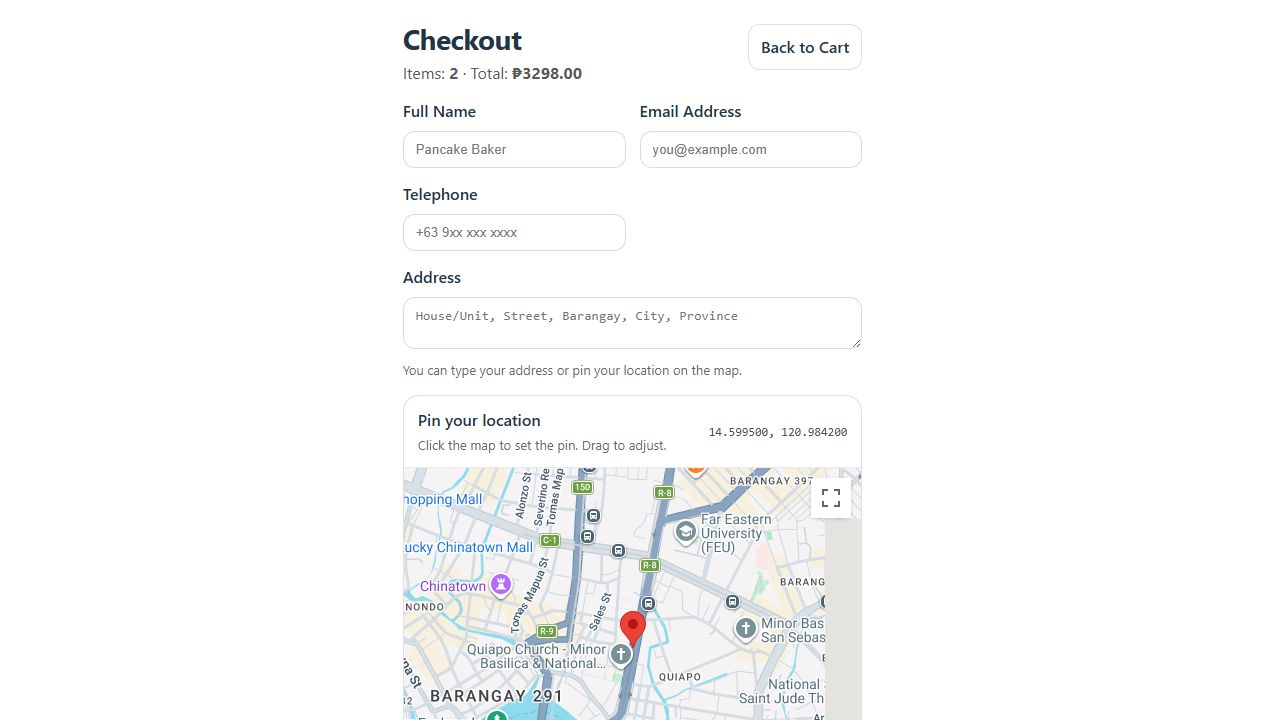
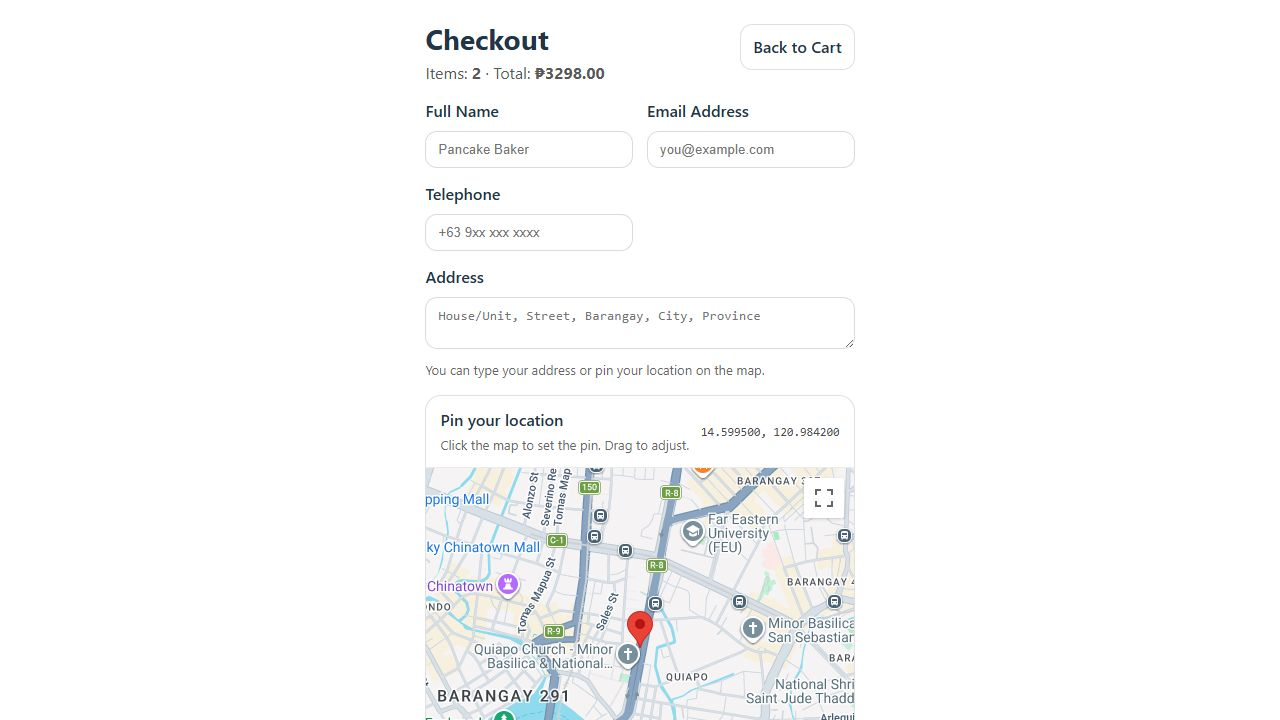
Improve product imagery and frontend SEO

diff --git a/ShoppingCartUI/src/pages/ProductsPage.jsx b/ShoppingCartUI/src/pages/ProductsPage.jsx
@@ -2,17 +2,22 @@ import React, { useEffect, useState } from "react";
 import { Link } from "react-router-dom";
 import { fetchProducts } from "../api";
 import { useCart } from "../cart/useCart"; // adjust if your hook path differs
+import { setPageMeta } from "../seo";
 import styles from "./ProductsPage.module.css";
 
-function ProductCard({ product, onAdd }) {
+function ProductCard({ product, onAdd, priority = false }) {
   return (
     <article className={styles.card}>
       <div className={styles.imageWrap}>
         <img
           className={styles.image}
           src={product.imageUrl}
-          alt={product.name}
-          loading="lazy"
+          alt={`${product.name} product photo`}
+          width="800"
+          height="800"
+          loading={priority ? "eager" : "lazy"}
+          fetchPriority={priority ? "high" : "auto"}
+          decoding={priority ? "sync" : "async"}
         />
       </div>
 
@@ -46,6 +51,14 @@ export default function ProductsPage() {
   const [error, setError] = useState("");
 
   useEffect(() => {
+    setPageMeta({
+      title: "Products | C# React Shopping Cart Demo",
+      description:
+        "Browse electronics products in a portfolio-ready ASP.NET Core and React shopping cart demo.",
+    });
+  }, []);
+
+  useEffect(() => {
     let cancelled = false;
 
     (async () => {
@@ -71,7 +84,7 @@ export default function ProductsPage() {
   }, []);
 
   return (
-    <div className={styles.page}>
+    <main className={styles.page}>
       <header className={styles.topbar}>
         <div>
           <h1 className={styles.pageTitle}>Products</h1>
@@ -102,10 +115,15 @@ export default function ProductsPage() {
       )}
 
       <section className={styles.grid} aria-label="Product list">
-        {products.map((p) => (
-          <ProductCard key={p.id} product={p} onAdd={addToCart} />
+        {products.map((p, index) => (
+          <ProductCard
+            key={p.id}
+            product={p}
+            onAdd={addToCart}
+            priority={index === 0}
+          />
         ))}
       </section>
-    </div>
+    </main>
   );
 }

diff --git a/ShoppingCartUI/index.html b/ShoppingCartUI/index.html
@@ -2,9 +2,30 @@
 <html lang="en">
   <head>
     <meta charset="UTF-8" />
-    <link rel="icon" type="image/svg+xml" href="/vite.svg" />
     <meta name="viewport" content="width=device-width, initial-scale=1.0" />
-    <title>shopping-cart-ui</title>
+    <meta
+      name="description"
+      content="A full-stack ASP.NET Core and React shopping cart demo with product browsing, cart state, checkout, Google Maps delivery pin selection, and automated tests."
+    />
+    <meta name="theme-color" content="#111111" />
+    <meta name="robots" content="index, follow" />
+    <meta property="og:type" content="website" />
+    <meta property="og:title" content="C# React Shopping Cart Demo" />
+    <meta
+      property="og:description"
+      content="Portfolio-ready shopping cart demo built with ASP.NET Core, React, Vite, Google Maps, and automated tests."
+    />
+    <meta property="og:image" content="/products/wireless-mouse.jpg" />
+    <meta name="twitter:card" content="summary_large_image" />
+    <meta name="twitter:title" content="C# React Shopping Cart Demo" />
+    <meta
+      name="twitter:description"
+      content="ASP.NET Core and React shopping cart demo with checkout and Google Maps delivery pin selection."
+    />
+    <link rel="icon" type="image/svg+xml" href="/favicon.svg" />
+    <link rel="manifest" href="/site.webmanifest" />
+    <link rel="preload" as="image" href="/products/wireless-mouse.jpg" />
+    <title>C# React Shopping Cart Demo</title>
   </head>
   <body>
     <div id="root"></div>

diff --git a/ShoppingCartUI/src/pages/CartPage.jsx b/ShoppingCartUI/src/pages/CartPage.jsx
@@ -1,6 +1,7 @@
-import React from "react";
+import { useEffect } from "react";
 import { Link } from "react-router-dom";
 import { useCart } from "../cart/useCart"; // adjust if your path differs
+import { setPageMeta } from "../seo";
 import styles from "./CartPage.module.css";
 
 function QtyButton({ children, onClick, label }) {
@@ -21,8 +22,16 @@ export default function CartPage() {
 
   const isEmpty = items.length === 0;
 
+  useEffect(() => {
+    setPageMeta({
+      title: "Cart | C# React Shopping Cart Demo",
+      description:
+        "Review cart items, update quantities, and continue to checkout in this ASP.NET Core and React demo.",
+    });
+  }, []);
+
   return (
-    <div className={styles.page}>
+    <main className={styles.page}>
       <header className={styles.topbar}>
         <div>
           <h1 className={styles.title}>Your Cart</h1>
@@ -58,8 +67,11 @@ export default function CartPage() {
                 <img
                   className={styles.thumb}
                   src={product.imageUrl}
-                  alt={product.name}
+                  alt={`${product.name} product photo`}
+                  width="800"
+                  height="800"
                   loading="lazy"
+                  decoding="async"
                 />
 
                 <div className={styles.itemInfo}>
@@ -141,6 +153,6 @@ export default function CartPage() {
           </aside>
         </div>
       )}
-    </div>
+    </main>
   );
 }

diff --git a/ShoppingCartUI/src/pages/CheckoutPage.jsx b/ShoppingCartUI/src/pages/CheckoutPage.jsx
@@ -4,6 +4,7 @@ import { GoogleMap, MarkerF, useJsApiLoader } from "@react-google-maps/api";
 import { useCart } from "../cart/useCart"; // adjust path if needed
 import styles from "./CheckoutPage.module.css";
 import { createOrder } from "../api";
+import { setPageMeta } from "../seo";
 
 const MAP_CONTAINER_STYLE = { width: "100%", height: "360px" };
 
@@ -22,6 +23,14 @@ export default function CheckoutPage() {
     const [touched, setTouched] = useState({});
     const [submitError, setSubmitError] = useState("");
     const [placedOrder, setPlacedOrder] = useState(false);
+
+    useEffect(() => {
+        setPageMeta({
+            title: "Checkout | C# React Shopping Cart Demo",
+            description:
+                "Enter customer details and choose a Google Maps delivery pin in this React checkout demo.",
+        });
+    }, []);
 
     useEffect(() => {
         if (!placedOrder && items.length === 0) {
@@ -146,7 +155,6 @@ export default function CheckoutPage() {
             const result = await createOrder(payload);
             setPlacedOrder(true);
             clearCart();
-            console.log("createOrder result:", result);
             navigate(`/thank-you/${result.orderId}`, { replace: true });
         } catch (e) {
             setSubmitError(e?.message || "Failed to place order.");
@@ -155,7 +163,7 @@ export default function CheckoutPage() {
 
     if (!apiKey) {
         return (
-            <div className={styles.page}>
+            <main className={styles.page}>
                 <header className={styles.topbar}>
                     <h1 className={styles.title}>Checkout</h1>
                     <Link to="/cart" className={styles.link}>Back to Cart</Link>
@@ -164,12 +172,12 @@ export default function CheckoutPage() {
                 <div className={styles.stateBoxError} role="alert">
                     Missing <code>VITE_GOOGLE_MAPS_API_KEY</code>. Add it to <code>.env</code> and restart Vite.
                 </div>
-            </div>
+            </main>
         );
     }
 
     return (
-        <div className={styles.page}>
+        <main className={styles.page}>
             <header className={styles.topbar}>
                 <div>
                     <h1 className={styles.title}>Checkout</h1>
@@ -316,9 +324,9 @@ export default function CheckoutPage() {
                 </button>
 
                 <p className={styles.note}>
-                    (Next step: we can POST this checkout + cart to your .NET backend as an Order.)
+                    Orders are priced and stored by the ASP.NET Core backend.
                 </p>
             </form>
-        </div>
+        </main>
     );
 }

diff --git a/ShoppingCartUI/src/seo.js b/ShoppingCartUI/src/seo.js
@@ -1,0 +1,15 @@
+const DEFAULT_TITLE = "C# React Shopping Cart Demo";
+const DEFAULT_DESCRIPTION =
+  "A full-stack ASP.NET Core and React shopping cart demo with product browsing, cart state, checkout, Google Maps delivery pin selection, and automated tests.";
+
+export function setPageMeta({
+  title = DEFAULT_TITLE,
+  description = DEFAULT_DESCRIPTION,
+} = {}) {
+  document.title = title;
+
+  const descriptionMeta = document.querySelector('meta[name="description"]');
+  if (descriptionMeta) {
+    descriptionMeta.setAttribute("content", description);
+  }
+}

diff --git a/ShoppingCartUI/src/pages/ThankYouPage.jsx b/ShoppingCartUI/src/pages/ThankYouPage.jsx
@@ -1,6 +1,7 @@
 import React, { useEffect, useMemo, useState } from "react";
 import { Link, useParams } from "react-router-dom";
 import { fetchOrder } from "../api";
+import { setPageMeta } from "../seo";
 import styles from "./ThankYouPage.module.css";
 
 export default function ThankYouPage() {
@@ -8,6 +9,14 @@ export default function ThankYouPage() {
     const [status, setStatus] = useState("loading"); // loading | success | error
     const [error, setError] = useState("");
     const [order, setOrder] = useState(null);
+
+    useEffect(() => {
+        setPageMeta({
+            title: "Order Confirmation | C# React Shopping Cart Demo",
+            description:
+                "View the order confirmation, customer details, delivery pin, and order totals from the ASP.NET Core backend.",
+        });
+    }, []);
 
     useEffect(() => {
         let cancelled = false;
@@ -44,7 +53,7 @@ export default function ThankYouPage() {
     }, [order]);
 
     return (
-        <div className={styles.page}>
+        <main className={styles.page}>
             <header className={styles.topbar}>
                 <div>
                     <h1 className={styles.title}>Thank you!</h1>
@@ -174,6 +183,6 @@ export default function ThankYouPage() {
                     </aside>
                 </div>
             )}
-        </div>
+        </main>
     );
 }

diff --git a/ShoppingCartUI/src/pages/CartPage.module.css b/ShoppingCartUI/src/pages/CartPage.module.css
@@ -15,7 +15,7 @@
 .title {
   margin: 0;
   font-size: 28px;
-  letter-spacing: -0.02em;
+  letter-spacing: 0;
 }
 
 .subtitle {
@@ -110,7 +110,7 @@
 .itemTitle {
   margin: 0;
   font-size: 16px;
-  letter-spacing: -0.01em;
+  letter-spacing: 0;
 
   overflow: hidden;
   text-overflow: ellipsis;

diff --git a/ShoppingCartUI/src/pages/ProductsPage.module.css b/ShoppingCartUI/src/pages/ProductsPage.module.css
@@ -15,7 +15,7 @@
 .pageTitle {
   margin: 0;
   font-size: 28px;
-  letter-spacing: -0.02em;
+  letter-spacing: 0;
 }
 
 .subtitle {
@@ -122,7 +122,7 @@
   margin: 0;
   font-size: 16px;
   line-height: 1.2;
-  letter-spacing: -0.01em;
+  letter-spacing: 0;
 
   /* prevent layout shift / overflow */
   overflow: hidden;

diff --git a/ShoppingCartUI/src/pages/CheckoutPage.module.css b/ShoppingCartUI/src/pages/CheckoutPage.module.css
@@ -15,7 +15,7 @@
 .title {
   margin: 0;
   font-size: 28px;
-  letter-spacing: -0.02em;
+  letter-spacing: 0;
 }
 
 .subtitle {

diff --git a/ShoppingCartUI/src/pages/ThankYouPage.module.css b/ShoppingCartUI/src/pages/ThankYouPage.module.css
@@ -15,7 +15,7 @@
 .title {
   margin: 0;
   font-size: 30px;
-  letter-spacing: -0.02em;
+  letter-spacing: 0;
 }
 
 .subtitle {

diff --git a/ShoppingCartApp/ShoppingCartApp.Tests/Services/ProductServiceTests.cs b/ShoppingCartApp/ShoppingCartApp.Tests/Services/ProductServiceTests.cs
@@ -42,17 +42,18 @@ public class ProductServiceTests
     }
 
     [Fact]
-    public void Products_ImageUrl_ShouldBeValidHttps()
+    public void Products_ImageUrl_ShouldBeValidWebPath()
     {
         foreach (var p in ProductService.Products)
         {
-            Assert.True(IsValidHttpsUrl(p.ImageUrl));
+            Assert.True(IsValidWebPath(p.ImageUrl));
         }
     }
 
-    private static bool IsValidHttpsUrl(string url)
+    private static bool IsValidWebPath(string url)
     {
-        return Uri.TryCreate(url, UriKind.Absolute, out var uri)
-               && uri.Scheme == Uri.UriSchemeHttps;
+        return Uri.TryCreate(url, UriKind.RelativeOrAbsolute, out var uri)
+               && (uri.IsAbsoluteUri && uri.Scheme == Uri.UriSchemeHttps
+                   || !uri.IsAbsoluteUri && url.StartsWith('/'));
     }
 }

diff --git a/ShoppingCartApp/ShoppingCartApp/Services/ProductService.cs b/ShoppingCartApp/ShoppingCartApp/Services/ProductService.cs
@@ -7,9 +7,9 @@ public static class ProductService
     // In-memory list (replace later with DB)
     public static readonly List<Product> Products =
     [
-        new(1, "Wireless Mouse", "Ergonomic wireless mouse", 799.00m, "https://picsum.photos/seed/mouse/300/200"),
-        new(2, "Mechanical Keyboard", "Blue switch mechanical keyboard", 2499.00m, "https://picsum.photos/seed/keyboard/300/200"),
-        new(3, "USB-C Hub", "7-in-1 USB-C hub", 1299.00m, "https://picsum.photos/seed/hub/300/200"),
-        new(4, "Noise-Cancel Headphones", "Over-ear ANC headphones", 3999.00m, "https://picsum.photos/seed/headphones/300/200"),
+        new(1, "Wireless Mouse", "Ergonomic wireless mouse", 799.00m, "/products/wireless-mouse.jpg"),
+        new(2, "Mechanical Keyboard", "Blue switch mechanical keyboard", 2499.00m, "/products/mechanical-keyboard.jpg"),
+        new(3, "USB-C Hub", "7-in-1 USB-C hub", 1299.00m, "/products/usb-c-hub.jpg"),
+        new(4, "Noise-Cancel Headphones", "Over-ear ANC headphones", 3999.00m, "/products/noise-cancel-headphones.jpg"),
     ];
 }